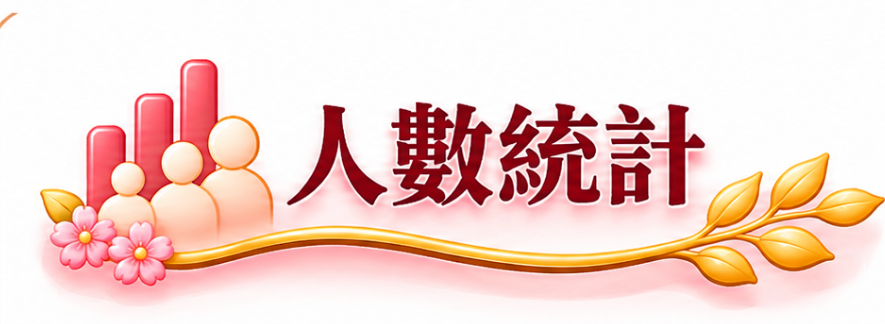
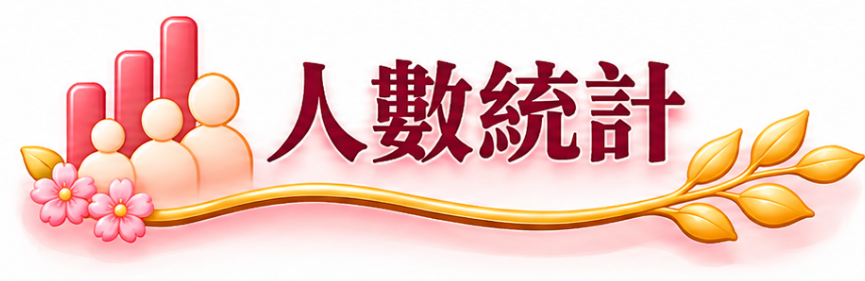
Add files via upload

diff --git a/admin.css b/admin.css
@@ -8175,86 +8175,83 @@ body.admin-body .admin-table {
   color: #2457A6 !important;
 }
 
-/* v120｜行程與人數統計標題視覺同高，兩條底線對齊 */
-@media (min-width: 901px) {
-  .dashboard-premium .dashboard-trip-list-card > .dashboard-panel-heading,
-  .dashboard-premium .dashboard-trip-stats-card > .dashboard-panel-heading {
-    box-sizing: border-box !important;
-    display: flex !important;
-    align-items: center !important;
-    height: 76px !important;
-    min-height: 76px !important;
-    max-height: 76px !important;
-    flex: 0 0 76px !important;
-    margin: 0 0 8px !important;
-    padding: 0 0 8px !important;
-    border-bottom: 1px solid #eadbd6 !important;
-  }
-
-  .dashboard-premium .dashboard-trip-list-card .dashboard-trip-title-art,
-  .dashboard-premium .dashboard-trip-stats-card .dashboard-stats-title {
-    display: flex !important;
-    align-items: center !important;
-    justify-content: flex-start !important;
-    gap: 14px !important;
-    height: 58px !important;
-    min-height: 58px !important;
-    max-height: 58px !important;
-    margin: 0 !important;
-    padding: 0 !important;
-    line-height: 1 !important;
-  }
-
-  /* 兩張原圖採相同實際高度，寬度依各自比例自然計算 */
-  .dashboard-premium .dashboard-trip-list-card .dashboard-trip-title-premium,
-  .dashboard-premium .dashboard-trip-stats-card .dashboard-stats-title > img {
-    display: block !important;
-    width: auto !important;
-    height: 50px !important;
-    min-width: 0 !important;
-    min-height: 50px !important;
-    max-width: 230px !important;
-    max-height: 50px !important;
-    flex: 0 0 auto !important;
-    object-fit: contain !important;
-    object-position: left center !important;
-  }
-
-  .dashboard-premium .dashboard-trip-stats-card .dashboard-stats-title small {
-    color: #2457A6 !important;
-    font-size: 20px !important;
-    font-weight: 800 !important;
-    line-height: 1.25 !important;
-  }
+/* v117｜行程標題與人數統計標題統一縮小；行程團名改寶藍色 */
+.dashboard-trip-list-card > .dashboard-panel-heading .dashboard-trip-title-premium,
+.dashboard-trip-stats-card .dashboard-panel-heading .dashboard-stats-title > img {
+  display: block !important;
+  width: auto !important;
+  min-width: 0 !important;
+  max-width: 158px !important;
+  height: 48px !important;
+  min-height: 0 !important;
+  max-height: 48px !important;
+  flex: 0 1 auto !important;
+  object-fit: contain !important;
+  object-position: left center !important;
+}
+.dashboard-trip-list-card > .dashboard-panel-heading .dashboard-trip-title-art {
+  height: 54px !important;
+  min-height: 54px !important;
+}
+.dashboard-trip-list .dashboard-trip-item-name {
+  color: #2457A6 !important;
 }
 @media (max-width: 900px) {
-  .dashboard-premium .dashboard-trip-list-card > .dashboard-panel-heading,
-  .dashboard-premium .dashboard-trip-stats-card > .dashboard-panel-heading {
-    box-sizing: border-box !important;
-    display: flex !important;
-    align-items: center !important;
-    min-height: 68px !important;
-    margin: 0 0 8px !important;
-    padding: 0 0 8px !important;
-    border-bottom: 1px solid #eadbd6 !important;
+  .dashboard-trip-list-card > .dashboard-panel-heading .dashboard-trip-title-premium,
+  .dashboard-trip-stats-card .dashboard-panel-heading .dashboard-stats-title > img {
+    height: 44px !important;
+    max-height: 44px !important;
+    max-width: 145px !important;
   }
-  .dashboard-premium .dashboard-trip-list-card .dashboard-trip-title-art,
-  .dashboard-premium .dashboard-trip-stats-card .dashboard-stats-title {
-    display: flex !important;
-    align-items: center !important;
-    gap: 10px !important;
-    min-height: 52px !important;
-    margin: 0 !important;
-    padding: 0 !important;
+  .dashboard-trip-list-card > .dashboard-panel-heading .dashboard-trip-title-art {
+    height: 50px !important;
+    min-height: 50px !important;
   }
+}
+@media (max-width: 560px) {
+  .dashboard-trip-list-card > .dashboard-panel-heading .dashboard-trip-title-premium,
+  .dashboard-trip-stats-card .dashboard-panel-heading .dashboard-stats-title > img {
+    height: 40px !important;
+    max-height: 40px !important;
+    max-width: 132px !important;
+  }
+  .dashboard-trip-list-card > .dashboard-panel-heading .dashboard-trip-title-art {
+    height: 46px !important;
+    min-height: 46px !important;
+  }
+}
+
+
+/* v121｜新版人數統計素材：裁掉白邊後，以字樣實際視覺高度對齊行程 */
+.dashboard-premium .dashboard-trip-list-card .dashboard-trip-title-premium,
+.dashboard-premium .dashboard-trip-stats-card .dashboard-stats-title > img {
+  display: block !important;
+  width: auto !important;
+  height: 50px !important;
+  min-height: 50px !important;
+  max-height: 50px !important;
+  max-width: 230px !important;
+  flex: 0 0 auto !important;
+  object-fit: contain !important;
+  object-position: left center !important;
+  transform: none !important;
+}
+.dashboard-premium .dashboard-trip-list-card .dashboard-trip-title-art,
+.dashboard-premium .dashboard-trip-stats-card .dashboard-stats-title {
+  display: flex !important;
+  align-items: center !important;
+  min-height: 58px !important;
+  height: 58px !important;
+  margin: 0 !important;
+  padding: 0 0 8px !important;
+  overflow: visible !important;
+}
+@media (max-width: 900px) {
   .dashboard-premium .dashboard-trip-list-card .dashboard-trip-title-premium,
   .dashboard-premium .dashboard-trip-stats-card .dashboard-stats-title > img {
-    width: auto !important;
     height: 44px !important;
     min-height: 44px !important;
     max-height: 44px !important;
-    max-width: 200px !important;
-    object-fit: contain !important;
   }
 }
 @media (max-width: 560px) {

diff --git a/admin.html b/admin.html
@@ -10,7 +10,7 @@
 
   <title>管理後台｜囍莉旅遊</title>
   
-<link rel="stylesheet" href="admin.css?v=20261128-v120-heading-align">
+<link rel="stylesheet" href="admin.css?v=20261128-cropped-new-art-v121">
 <meta name="xili-admin-build" content="v110-unique-script-and-style">
 </head>
 
@@ -131,7 +131,7 @@
 
           <section class="admin-card dashboard-panel dashboard-trip-stats-card" aria-live="polite">
             <div class="dashboard-panel-heading">
-              <h3 class="dashboard-stats-title"><img src="stats-title.png?v=20261128-title-match-v113" alt="人數統計" draggable="false"><small id="dashboardStatsTripName">請選擇左側行程</small></h3>
+              <h3 class="dashboard-stats-title"><img src="stats-title.png?v=20261128-cropped-new-art-v121" alt="人數統計" draggable="false"><small id="dashboardStatsTripName">請選擇左側行程</small></h3>
             </div>
             <div id="dashboardTripStatsContent" class="dashboard-trip-stats-content">
               <div class="dashboard-stats-placeholder">請選擇左側行程</div>
